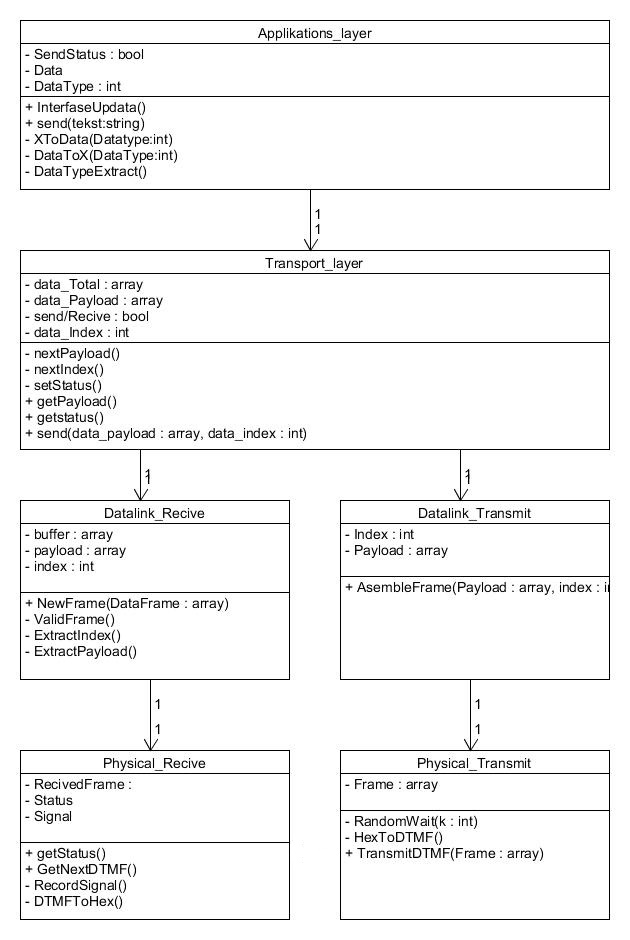
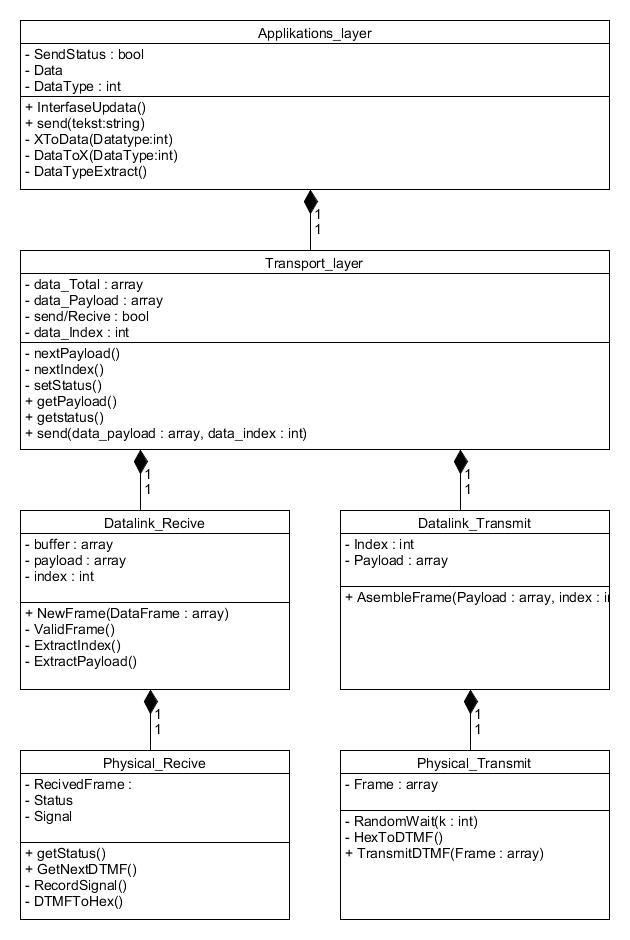
tilføjet klassediagram

diff --git a/Documents/Rapport/Sections/Programstruktur.tex b/Documents/Rapport/Sections/Programstruktur.tex
@@ -14,32 +14,29 @@ Figur \ref{fig:Blokdiagram} viser første udkast til programmets struktur i grov
 I og med at den ønskede applikation er et chat-program, er det af høj prioritet, at den logiske forbindelse mellem de to brugere er pålidelig. Dette indebære at det som afsenderen skriver skal være præcis det samme som modtageren læser. Systemet vil derfor tage udgangspunkt i TCP/IP, da denne protokol vigtigst af alt tilbyder en pålidelig overførsel af data. 
 
 
-
 \subsection{Klassediagram}
 Næste step i arbejdsprocessen bliver at opsætte et klasse diagram, hvor i dataoverførelsen skal nedprydes i flere klasser med hver sit ansvarsområde, og funktionaliteter der passer hertil. Normalt kræver det, for at kunne udarbejde et systemklassediagram, at der inden er udarbejdet en domænemodel, med objekter fra den virkelige verden, men da dette projekt er et rent software problem, vil dette step ikke tilføre nogen værdi til projektet. 
 
 \begin{figure}[h]
 \centering
-\includegraphics[scale=0.55]{Billeder/Klassediagram_v1.JPG}
+\includegraphics[scale=0.45]{Billeder/Klassediagram_v1.jpg}
 \caption{Her vises systemklassediagram}
 \label{fig:Klassediagram_v1}
 \end{figure}
 
+Det er ønsket at opnå en lagdelt struktur af programmet, da dette giver den fordel at ændringer på et lag ikke påvirker resten af programmets virkemåde, sålænge at inputtet og outputtet forbliver af samme format. Programmet er inddelt i fire lag:  Applikationslaget, transprotlaget, datalinklaget og det fysiske lag. Heraf er Datalinklaget og det fysiske lag opdelt i en afsender og modtager del. Dette ses af figur \ref{fig:Klassediagram_v1}. Denne struktur er inspireret af internettets syvlagsmodel, men da der ikke er behov for at route datapakker, vil der ikke være behov for netværkslaget. 
 
-Hvordan skal en domænemodel opbygges for at sikre denne karakteristik. 
+For at anvende af den service programmet tilbyder, er det nok at inkludere klassen "ApplicationLayer" og oprette et objekt heraf. Dette kan lade sig gøre de de underliggende objekter håndteres af applikationslaget. Applikationslaget kan derfor betragtes som værende systemets "controller". 
 
-Jeg 
-
-Baseret på krav og domænemodel tilføjes nu funktionalitet
-
-Jævnføre projektoplæget skal der anvendes en lagsopdelt arkitektur. 
-
-det viste klassediagram er et udkast til programmet, og kan derfor ændre sig efter behov gennem projektet. nedenstående.
+Det opstillede designklassediagram vil blive anvendt som en retningslinje for programmets opbygning, men da det i dette stadie af projektet kan være svært at tage højde for alt, vil det ikke være utænkeligt der måtte forkomme ændringer her i.
 
 
 \subsection{Ansvarsfordeling til klasser}
 Hvordan forvæntes de forskellige “sorte kasser” at arbejde sammen (grænse flader)
 
 -Udpenslende forklaring af ansvarsfordeling og programstruktur.  
+
+hvert lag får tildelt et ansvarsområde 
+seberation of conserns
 
 Derfor vil opgraderinger i konverteringen på applikationslaget være nok til at lade systemet understøtte flere datatyper (billeder, lyd og filer)
